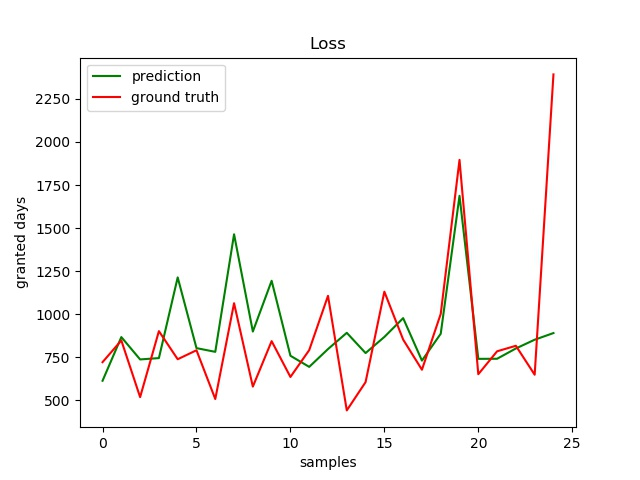
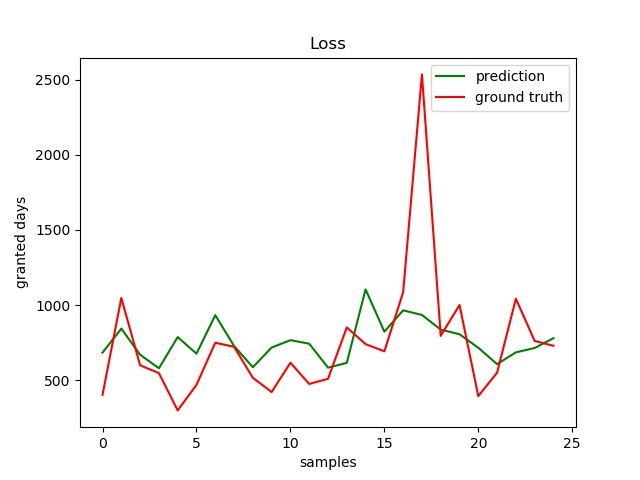
generate dataset without outlier

diff --git a/DNN/dnn.py b/DNN/dnn.py
@@ -11,19 +11,21 @@ parser.add_argument('--gpu_ids',default='0', type=str,help='gpu_ids: e.g. 0  0,1
 parser.add_argument('--data_dir',default='../data/market/pytorch',type=str, help='training dir path')
 parser.add_argument('--test_dir',default='../data/duke/pytorch',type=str, help='./test_data')
 
-parser.add_argument('--model_dir',default='./models/2019_11_16_08/model_epoch_9.pkl',type=str, help='./model_data')
+parser.add_argument('--model_dir',default='./models/2019_11_16_13/model_epoch_19.pkl',type=str, help='./model_data')
 parser.add_argument('--train_on_save', default= False, action='store_true', help='use saved model training data' )
 
 parser.add_argument('--convert_y', default=False, action='store_true', help='use converted Y' )
 parser.add_argument('--PCA', default=False, action='store_true', help='use PCA to comress X ' )
 parser.add_argument('--LDA', default=False, action='store_true', help='use LDA to comress X ' )
+parser.add_argument('--with_if', default=False, action='store_true', help='use if dataset ' )
+
 
 parser.add_argument('--batchsize', default=128, type=int, help='batchsize')
 parser.add_argument('--stride', default=2, type=int, help='stride')
 parser.add_argument('--erasing_p', default=0, type=float, help='Random Erasing probability, in [0,1]')
 
 parser.add_argument('--lr', default=0.01, type=float, help='learning rate')
-parser.add_argument('--epoch', default=20, type=int, help='training epoch')
+parser.add_argument('--epoch', default=15, type=int, help='training epoch')
 
 parser.add_argument('--droprate', default=0.5, type=float, help='drop rate')
 

diff --git a/IsolationForest.py b/IsolationForest.py
@@ -2,6 +2,7 @@ import pandas as pd
 import numpy as np
 import os
 from sklearn.ensemble import IsolationForest as IF
+from sklearn.model_selection import train_test_split
 
 class IsolationForest:
     def __init__(self, fileNameX = 'data_preparation/X.npy', fileNameY = 'data_preparation/Y.npy', trainSubset = 50, trainCount  = 10, threshold = 0.6, columnStart = 0, columnEnd = 13):
@@ -16,7 +17,10 @@ class IsolationForest:
         self.threshold   = threshold
         self.columnStart = columnStart
         self.columnEnd   = columnEnd
-        self.train()
+        self.inlier_X = []
+        self.inlier_y = []
+        self.outlier_X = []
+        self.outlier_y = []
 
     def train(self):
         XwithoutDummy = self.X[:, self.columnStart:self.columnEnd] 
@@ -50,4 +54,19 @@ class IsolationForest:
     def getOutlierY(self):
         return self.outlier_y
 
-    
+
+def remove_outlier_with_IF():
+    temp = IsolationForest()
+    temp.train()
+    X = temp.getInlierX()
+    Y = temp.getInlierY()
+    x_train, x_test, y_train, y_test = train_test_split(X, Y, test_size=0.2, random_state=0)
+
+    # save dataset to data_preparation
+    ROOT_PATH = 'data_preparation/'
+    np.save(ROOT_PATH + 'X_IF_train.npy', x_train)
+    np.save(ROOT_PATH + 'X_IF_test.npy', x_test)
+    np.save(ROOT_PATH + 'Y_IF_train.npy', y_train)
+    np.save(ROOT_PATH + 'Y_IF_test.npy', y_test)
+
+remove_outlier_with_IF()

diff --git a/loader.py b/loader.py
@@ -6,25 +6,21 @@ import os
 from sklearn import svm
 import numpy as np
 from sklearn.model_selection import train_test_split
-
 from sklearn.preprocessing import OneHotEncoder
 
 from torch.utils.data import Dataset
 
-
-def load_data_train():
-    X = np.load('../data_preparation/X_train.npy')
-    Y = np.load('../data_preparation/Y_train.npy').reshape((-1, 1))
+def load_data_train(With_IF):
+    X = np.load('../data_preparation/X_IF_train.npy')  if With_IF else np.load('../data_preparation/X_train.npy')
+    Y = np.load('../data_preparation/Y_IF_train.npy').reshape((-1, 1)) if With_IF else np.load('../data_preparation/Y_train.npy').reshape((-1, 1))
     x_train, x_test, y_train, y_test = train_test_split(X, Y, test_size= 0.2, random_state=0)
     return x_train, y_train, x_test, y_test
 
 
-def load_data_test():
-    X = np.load('../data_preparation/X_test.npy')
-    Y = np.load('../data_preparation/Y_test.npy').reshape((-1, 1))
+def load_data_test(WITH_IF):
+    X = np.load('../data_preparation/X_IF_test.npy') if WITH_IF else np.load('../data_preparation/X_test.npy')
+    Y = np.load('../data_preparation/Y_IF_test.npy').reshape((-1, 1)) if WITH_IF else np.load('../data_preparation/Y_test.npy').reshape((-1, 1))
     return X, Y
-
-
 
 
 def load_data_with_convert_Y():

diff --git a/DNN/model.py b/DNN/model.py
@@ -8,15 +8,15 @@ class Net(torch.nn.Module):
     def __init__(self, n_feature, n_hidden, n_output):
         super(Net, self).__init__()
 
-        self.hidden = nn.Linear(n_feature, n_output)
-        #self.sigmoid = torch.relu
-        #self.predict1 = nn.Linear(n_hidden, n_hidden)
+        self.hidden = nn.Linear(n_feature, n_hidden)
+        self.sigmoid = torch.sigmoid
+        self.predict1 = nn.Linear(n_hidden, n_output)
         #self.predict2 = nn.Linear(n_hidden, n_output)
 
     def forward(self, x):
         x = self.hidden(x)
-        #x = self.sigmoid(x)
-        #x = self.predict1(x)
+        x = self.sigmoid(x)
+        x = self.predict1(x)
         #x = self.sigmoid(x)
         #x=  self.predict2(x)
         return x

diff --git a/DNN/train.py b/DNN/train.py
@@ -42,7 +42,7 @@ def train(opt):
     if opt.convert_y:
         xtrain, ytrain, xtest, ytest = load_data_with_convert_Y()
     else:
-        xtrain, ytrain, xtest, ytest = load_data_train()
+        xtrain, ytrain, xtest, ytest = load_data_train(opt.with_if)
 
     if opt.PCA:
         pca = PCA(n_components=50)

diff --git a/DNN/test.py b/DNN/test.py
@@ -44,7 +44,7 @@ def test(opt):
         torch.cuda.set_device(gpu_ids[0])
         cudnn.benchmark = True
 
-    xtest, ytest = load_data_test()
+    xtest, ytest = load_data_test(opt.with_if)
 
     datasets = {}
     datasets['test'] = PatentDataset(xtest, ytest)

diff --git a/docs/DNN.md b/docs/DNN.md
@@ -25,12 +25,16 @@ We also modified our hyper - parameters with more experiments. Overall, we made 
 |1|2|128|Sigmoid|358.96|241.25|0.5119|
 |2|2|512|Sigmoid|358.14|241.13|0.5111|
 |3|2|512|ReLU|362.54|249.89|0.4809|
-|4|0|N/A|N/A|xx|xx|xx|
+|4|0(Linear Regression)|N/A|N/A|xx|xx|xx|
 |5|1|128|Sigmoid|xx|xx|xx|
 
 Overall, the best result achieved with DNN is from experiment x, which achieves the RMSE at xxx.
 
- 
+ ## Result On Fine-Tuned Dataset
+With Isolated Forest Algorithm, we remove some outlier samples in the train dataset. With the fine-tuned dataset, we trained a new deep model. The parameter setting and result are shown below: 
 
+| Number Of Hidden Layers | Number of Nodes in Hidden Layers | Activation Function | RMSE | Absolute Error | Accuracy |
+|--|--|--|--|--|--|
+|2|128|Sigmoid|358.96|241.25|0.5119|
 
 
